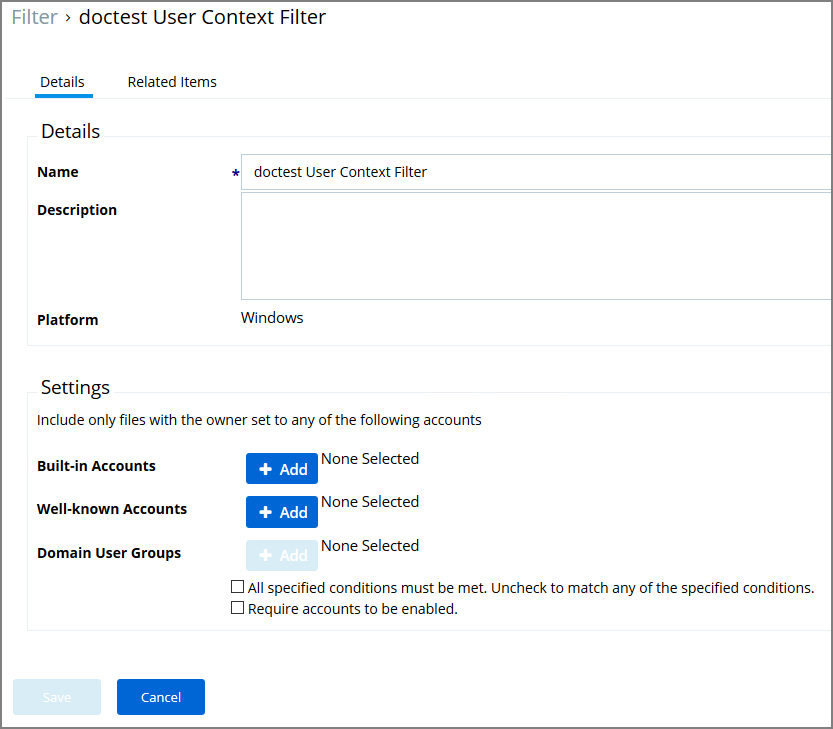
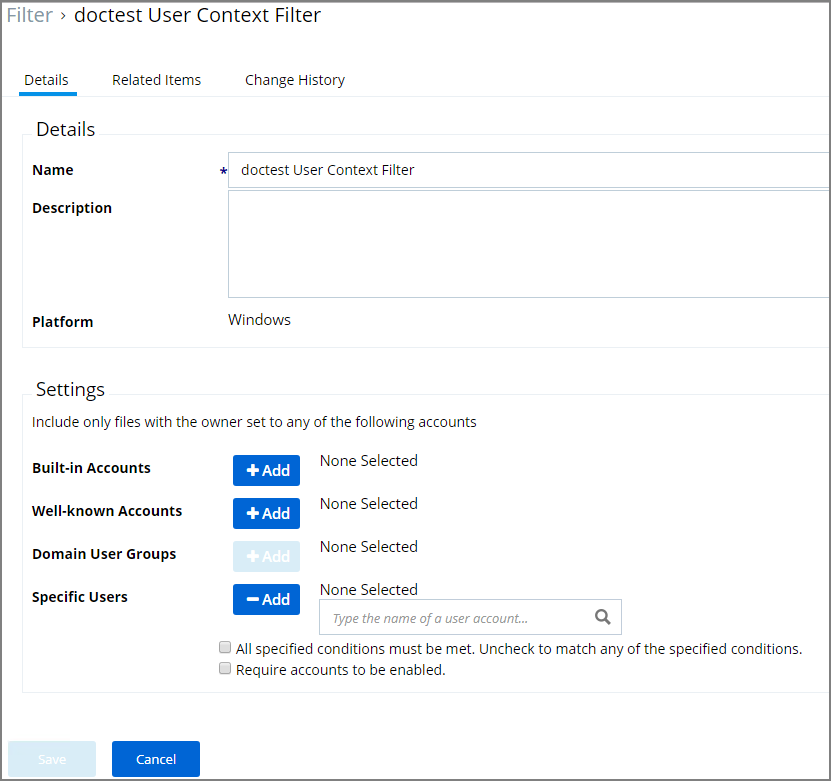
first draft to cover new Specific Users option.

diff --git a/app-control/filters/user-context.md b/app-control/filters/user-context.md
@@ -18,11 +18,12 @@ For Privilege Manager on-premises the __User Context Filter__ can be used after 
 
 * Build-in Accounts,
 * Well-known Accounts, and/or
-* Domain User Groups
+* Domain User Groups, or
+* Specific Users.
 
 to specifically select user context.
 
-Then select if __ALL__ conditions must be met. Leave the box unchecked to match __ANY__. You can also specify, if accounts must be enabled to be targeted.
+Then select if __ALL__ conditions must be met. Leave the box unchecked to match __ANY__. You can also specify, if accounts must be enabled to be targeted. This is an important checkbox to set if specific users have been added.
 
 ![Create User Context Filter](images/user_context_1.png)
 
